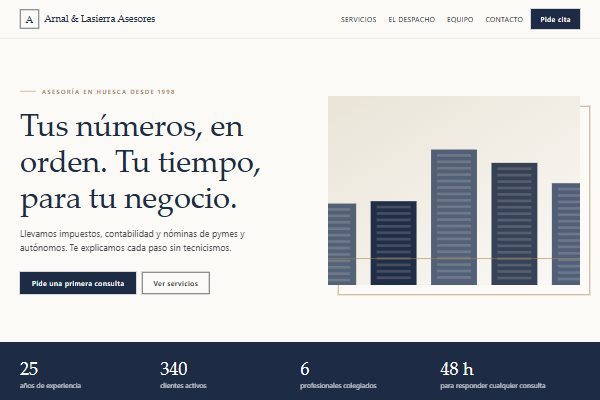
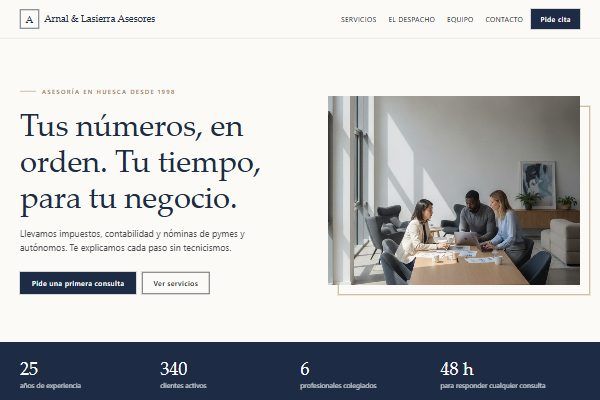
Fotos generadas con IA y previews nuevas (v1.1.0)

Changed region(s): [[0.54, 0.24, 0.99, 0.72]]

diff --git a/CLAUDE.md b/CLAUDE.md
@@ -40,3 +40,5 @@ Antes de dar una orden por buena: `npm run build` sin errores.
 ## Campos propios de esta plantilla (además del esquema común)
 - `hero.items`: cifras de la franja inferior (`titulo` = cifra, `texto` = etiqueta).
 - `sobre-nosotros.items`: compromisos con icono. `texto` admite varios párrafos (línea en blanco entre ellos).
+
+Fotos de partida en public/fotos/ (generadas con IA, sin derechos de terceros); los SVG de public/placeholders/ siguen de respaldo.
